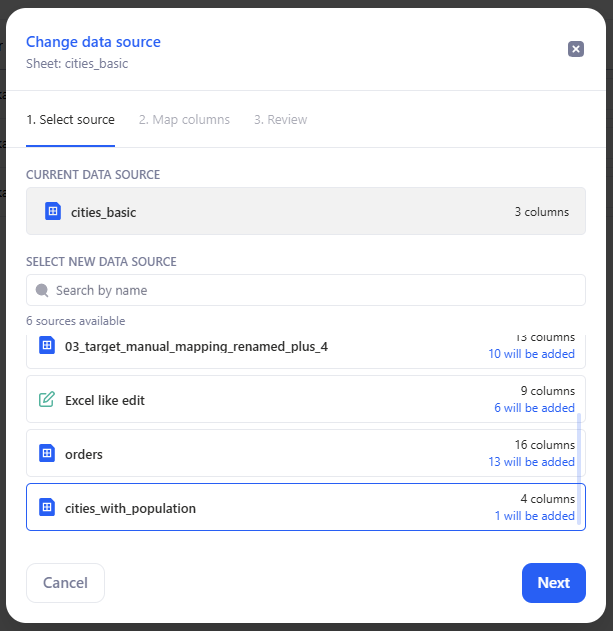
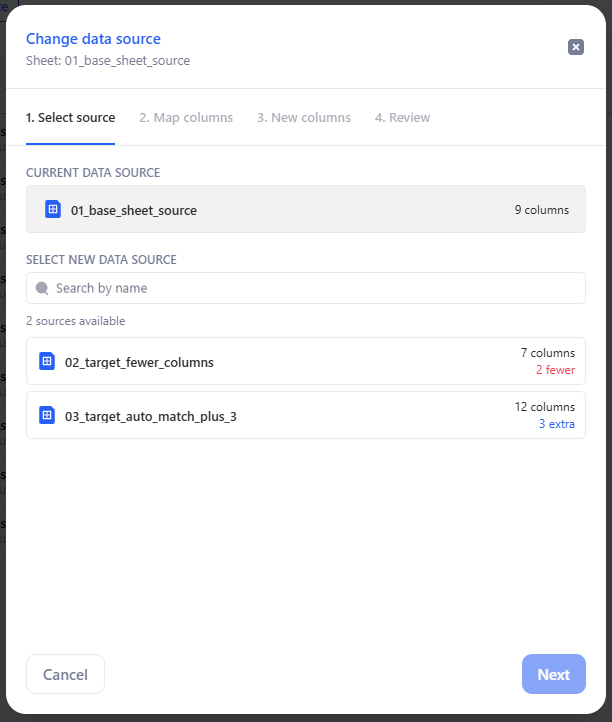
GITBOOK-63: No subject

diff --git a/02_00_modeling/change-data-source.md b/02_00_modeling/change-data-source.md
@@ -1,136 +1,223 @@
 # Change Data Source
 
-The **Change data source** feature lets you replace the primary data source of an existing sheet from the **Model** tab.
+Use **Change data source** to replace the primary data source of an existing sheet.
 
-You can start this flow on an existing sheet even after you have already configured elements such as charts, pivot tables, grouping, filters, formulas, lookup columns, and mapping columns.
+Use this feature when you want to:
+
+* switch the sheet to a source with the same structure
+* replace the source with one that has fewer columns
+* replace the source with one that has additional columns
 
 ## 1. Before you start
 
-Important notes:
-
-* The feature is available from the **Model** tab of a sheet.
+* The feature is available from the **Model** tab.
 * It is not available for **multi-sheets**.
-* The current data source is shown in the dialog for reference.
-* The current data source does not appear in the selection list.
-* Any supported KAWA data source type can be used.
-* Returning a sheet to its original data source after switching away from it is currently not supported.
+* The current data source is shown for reference, but it does not appear in the replacement list.
+* You can switch to a source with fewer, the same number of, or more columns than the current source.
 
-## 2. Open the Change data source dialog
+> You can use this feature even if the sheet already contains charts, pivot tables, grouping, filters, formulas, lookup columns, or mapped columns.
+
+This article uses the following example files:
+
+* `01_base_sheet_source.csv` — the original source
+* `02_target_fewer_columns.csv` — a compatible replacement source with fewer columns
+* `03_target_auto_match_plus_3.csv` — a compatible replacement source with additional columns
+
+## 2. Open the dialog
 
 1. Open the sheet.
-2. Go to the **Model** tab.
-3. Click **Change data source** in the toolbar.
+2. Go to **Model**.
+3. Click **Change data source**.
 
 <figure><img src="../.gitbook/assets/change_data_source1.png" alt=""><figcaption></figcaption></figure>
 
-_The **Change data source** button is available from the **Model** tab of a sheet._
-
-KAWA opens a 3-step dialog:
+KAWA opens a 4-step flow:
 
 1. **Select source**
 2. **Map columns**
-3. **Review**
-
-## 3. Step 1 — Select source
-
-In the first step, KAWA shows:
-
-* the current data source
-* a searchable list of available replacement data sources
-* the number of columns in each source
-* whether a source is incompatible
-* how many additional columns will be added to the sheet
-
-Data sources with fewer columns than the current one appear as **incompatible**.
-
-Select the new data source and click **Next**.
+3. **New columns**
+4. **Review**
 
 <figure><img src="../.gitbook/assets/change_data_source2.png" alt=""><figcaption></figcaption></figure>
 
-_Select a replacement data source and review compatibility before continuing._
+## 3. Step 1 — Select source
+
+Choose the new data source for the sheet.
+
+For each available source, KAWA shows:
+
+* the source name
+* the number of columns
+* the difference compared with the current source
+
+Badges show the column-count difference:
+
+* **+N extra** — the new source has more columns
+* **N fewer** — the new source has fewer columns
+
+### 3.1 Example
+
+Suppose the sheet currently uses `01_base_sheet_source.csv`.
+
+In the source list, you may see:
+
+* `02_target_fewer_columns.csv` with **2 fewer**
+* `03_target_auto_match_plus_3.csv` with **3 extra**
+
+This tells you that one replacement will leave some existing columns without data, while the other may let you add new columns to the sheet.
+
+Click **Next** to continue.
 
 ## 4. Step 2 — Map columns
 
-In the mapping step, every column from the current primary data source must be mapped to one column in the new data source.
+KAWA matches columns from the current sheet to columns in the new data source.
 
-KAWA automatically matches columns when their **name** and **type** match.
+KAWA automatically matches columns when their **name** and **type** are compatible. Review these matches before continuing.
 
-Rules for mapping:
+### 4.1 Current source columns
 
-* all current-source columns must be mapped before you can continue
-* columns of different types cannot be mapped to each other
-* the same new column cannot be mapped to multiple current columns
-* the mapping must be **1:1**
+This section shows columns that are currently mapped from the active primary source.
 
-If the new data source contains additional columns that are not used in the mapping, those columns are added to the sheet automatically.
+Rules:
 
-After completing the mapping, click **Next**.
+* **Key columns must remain mapped.**
+* **Non-key columns can be left unmapped.**
+* Columns with incompatible types cannot be mapped to each other.
+* One target column can be used only once.
+* Mapping must remain **1:1**.
+
+If a non-key column is left unmapped, it stays in the sheet but no longer receives data from the new source.
+
+### 4.2 Example: replace with fewer columns
+
+Suppose `01_base_sheet_source.csv` contains these columns:
+
+* `record id`
+* `account_id`
+* `country`
+* `city`
+* `segment`
+* `signup_date`
+* `order_count`
+* `lifetime_value`
+* `last_order_date`
+
+Now replace it with `02_target_fewer_columns.csv`, which contains:
+
+* `record id`
+* `account_id`
+* `country`
+* `city`
+* `signup_date`
+* `order_count`
+* `lifetime_value`
+
+In this case, KAWA automatically matches 7 columns and leaves these columns unmapped:
+
+* `segment`
+* `last_order_date`
+
+These two columns remain in the sheet, but they will no longer receive data after the change.
 
 <figure><img src="../.gitbook/assets/change_data_source3.png" alt=""><figcaption></figcaption></figure>
 
-_Map each current column to a matching column in the new data source._
+### 4.3 Previously unmapped columns
 
-## 5. Step 3 — Review
+If the sheet already contains columns that lost their source mapping during an earlier replacement, KAWA shows them in a separate **Previously unmapped columns** section.
 
-In the review step, KAWA shows:
+Use this section to reconnect those columns to the new source.
 
-* the current data source and the new data source
-* the number of mapped columns
-* the list of new columns that will be added to the sheet
+Important behavior:
 
-Review the change carefully before applying it.
+* KAWA can auto-match these columns when possible.
+* These columns are optional to remap.
+* A target column from the new source can be used only once across the entire mapping step, including both Current source columns and Previously unmapped columns.
 
-> New columns will be added to the sheet. This action cannot be undone.
+### 4.4 Example: restore unmapped columns later
 
-Click **Apply** to update the sheet model.
+Suppose you first replace `01_base_sheet_source.csv` with `02_target_fewer_columns.csv` and leave `segment` and `last_order_date` unmapped.
+
+Later, you run **Change data source** again with a source that contains compatible versions of these fields. KAWA shows them in **Previously unmapped columns**, so you can connect them again.
 
 <figure><img src="../.gitbook/assets/change_data_source4.png" alt=""><figcaption></figcaption></figure>
 
-_Review the selected source, mapped columns, and new columns before applying the change._
+Click **Next** after reviewing the mappings.
 
-## 6. Example
+## 5. Step 3 — New columns
 
-Suppose your sheet is currently based on `cities_basic.csv` with the following columns:
+This step shows columns from the new source that are not used in any existing mapping.
 
-* `id`
-* `city`
+Select the columns you want to add to the sheet.
 
-You change the sheet to `cities_with_population.csv`, which contains:
+> Extra columns are not added automatically. Only the columns you select in this step are added.
 
-* `id`
-* `city`
-* `population`
+### 5.1 Example
+
+Replace `01_base_sheet_source.csv` with `03_target_auto_match_plus_3.csv`.
 
 In this case:
 
-* `id` is mapped to `id`
-* `city` is mapped to `city`
-* `population` is added to the sheet automatically
+* existing compatible columns are mapped first
+* unused columns from the new source appear in **New columns**
+* only the columns you select are added to the sheet
 
-For example, the original data source may look like this:
-
-| id | city       |
-| -- | ---------- |
-| 1  | Amsterdam  |
-| 2  | Berlin     |
-| 3  | Copenhagen |
-| 4  | Dublin     |
-| 5  | Edinburgh  |
-
-The new data source may look like this:
-
-| id | city       | population |
-| -- | ---------- | ---------- |
-| 1  | Amsterdam  | 921402     |
-| 2  | Berlin     | 3644826    |
-| 3  | Copenhagen | 667099     |
-| 4  | Dublin     | 592713     |
-| 5  | Edinburgh  | 506520     |
-
-After the change:
-
-* `id` remains mapped to `id`
-* `city` remains mapped to `city`
-* the new `population` column is added to the sheet automatically
+If you do not select any extra columns, they are ignored.
 
 <figure><img src="../.gitbook/assets/change_data_source5.png" alt=""><figcaption></figcaption></figure>
+
+Click **Next** to continue.
+
+## 6. Step 4 — Review
+
+Before applying the change, KAWA shows a summary of the result.
+
+The summary includes:
+
+* the current data source
+* the new data source
+* **Columns mapped**
+* **Columns with no data**
+* **New columns**
+
+### 6.1 Example: fewer columns
+
+If you replace `01_base_sheet_source.csv` with `02_target_fewer_columns.csv`, the review may show:
+
+* **Columns mapped:** `7 / 9`
+* **Columns with no data:** `segment`, `last_order_date`
+* **New columns:** `None`
+
+<figure><img src="../.gitbook/assets/change_data_source6.png" alt=""><figcaption></figcaption></figure>
+
+### 6.2 Example: additional columns
+
+If you replace `01_base_sheet_source.csv` with `03_target_auto_match_plus_3.csv`, the review shows:
+
+* the mapped existing columns
+* the extra columns you selected in **New columns**
+
+Review the summary, then click **Apply changes**.
+
+<figure><img src="../.gitbook/assets/change_data_source7.png" alt=""><figcaption></figcaption></figure>
+
+## 7. What happens to columns with no data
+
+If a non-key column is left unmapped:
+
+* the column remains in the sheet
+* it no longer receives data from the primary source
+* its cells remain empty
+* its data source is shown as **N/A** in field information
+* it is excluded from parts of the UI that require an active source mapping
+
+### 7.1 Example
+
+After replacing `01_base_sheet_source.csv` with `02_target_fewer_columns.csv`:
+
+* `segment` remains visible in the sheet
+* `last_order_date` remains visible in the sheet
+* both columns stay empty until they are remapped in a later replacement
+
+This lets you keep the sheet structure and decide later whether to remap or remove the column.
+
+<figure><img src="../.gitbook/assets/change_data_source8.png" alt=""><figcaption></figcaption></figure>
